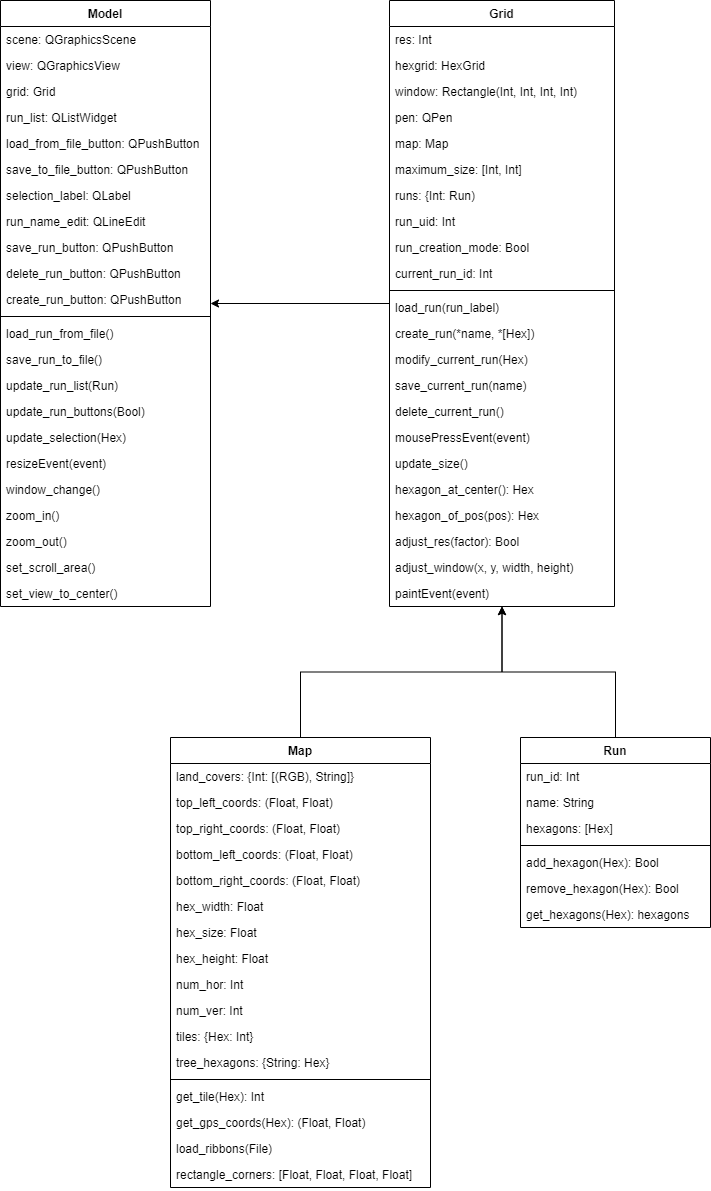
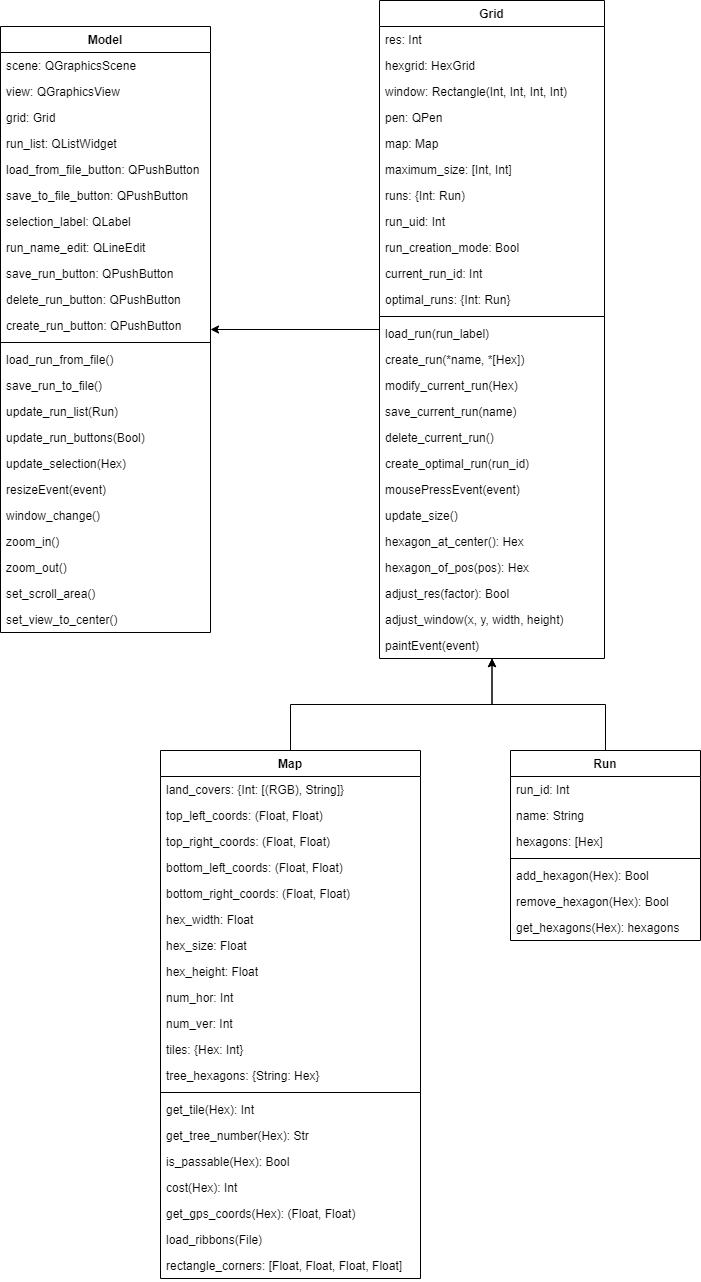
Added the functionality for calculating optimal runs. Optimal runs are now written next to the normal run columns in the CSV files.

diff --git a/code/visualisation/model.py b/code/visualisation/model.py
@@ -100,12 +100,14 @@ class Model(QtWidgets.QMainWindow):
         run_list_box.addWidget(self.run_list)
 
         # Creates a button that loads a run from a file.
-        self.load_from_file_button = QtWidgets.QPushButton("Load Run(s) from File(s)", self)
+        self.load_from_file_button = QtWidgets.QPushButton(
+            "Load Run(s) from File(s)", self)
         self.load_from_file_button.clicked.connect(self.load_run_from_file)
         run_list_box.addWidget(self.load_from_file_button)
 
         # Creates a button that writes the run hexagons to a csv file.
-        self.save_to_file_button = QtWidgets.QPushButton("Save Run to File", self)
+        self.save_to_file_button = QtWidgets.QPushButton(
+            "Save Run to File", self)
         self.save_to_file_button.clicked.connect(self.save_run_to_file)
         self.save_to_file_button.clicked.connect(self.grid.save_current_run)
         self.save_to_file_button.clicked.connect(self.run_list.clearSelection)
@@ -126,7 +128,8 @@ class Model(QtWidgets.QMainWindow):
         # Creates the button that saves the current run.
         self.save_run_button = QtWidgets.QPushButton("Save Run", self)
         self.save_run_button.setStyleSheet("background-color : green")
-        self.save_run_button.clicked.connect(lambda: self.grid.save_current_run(self.run_name_edit.text()))
+        self.save_run_button.clicked.connect(lambda: self.grid.save_current_run(
+            self.run_name_edit.text()))
         self.save_run_button.clicked.connect(self.run_list.clearSelection)
         self.save_run_button.clicked.connect(self.save_to_file_button.hide)
         self.save_run_button.hide()
@@ -188,6 +191,7 @@ class Model(QtWidgets.QMainWindow):
         selected_run = self.run_list.selectedItems()[0].text()
         selected_run_id = int(selected_run.partition(":")[0])
         run_to_be_saved = self.grid.runs[selected_run_id]
+        optimal_run = self.grid.optimal_runs[selected_run_id]
 
         file_name, _ = QtWidgets.QFileDialog.getSaveFileName(
             self, "Save Run to File", f"data/runs/{run_to_be_saved.name}",
@@ -204,32 +208,63 @@ class Model(QtWidgets.QMainWindow):
             csv_writer = writer(file)
 
             # Writes the header.
-            csv_writer.writerow(["x", "y", "lat", "long", "ribbon"])
+            csv_writer.writerow(["x", "y", "lat", "long", "ribbon",
+                                 "x", "y", "lat", "long", "ribbon"])
 
             visited_trees = []
-            for hex in run_to_be_saved.hexagons:
-                gps_coords = self.grid.map.get_gps_coords(hex)
+            optimal_visited_trees = []
+            for idx, hex in enumerate(run_to_be_saved.get_hexagons()):
+                # Values of the run.
+                hex_gps_coords = self.grid.map.get_gps_coords(hex)
+                hex_x = hex.x
+                hex_y = hex.y
+                hex_lat = hex_gps_coords[0]
+                hex_long = hex_gps_coords[1]
+                ribbon_collected = ""
 
                 # Adds tree number if ribbon collected.
-                if hex in self.grid.map.tree_hexagons.values():
-                    tree_hexes = self.grid.map.tree_hexagons.items()
-                    tree_number = [k for k, v in tree_hexes if v == hex][0]
-
+                tree_number = self.grid.map.get_tree_number(hex)
+                if tree_number:
                     # Only writes tree number if ribbon has not been collected before.
                     if tree_number not in visited_trees:
-                        csv_writer.writerow(
-                            [hex.x, hex.y, gps_coords[0], gps_coords[1], tree_number])
+                        ribbon_collected = tree_number
                         visited_trees.append(tree_number)
-                    else:
-                        csv_writer.writerow(
-                            [hex.x, hex.y, gps_coords[0], gps_coords[1]])
+
+                # Values of the optimal run.
+                if idx < len(optimal_run.get_hexagons()):
+                    optimal_hex = optimal_run.get_hexagons()[idx]
+                    optimal_hex_gps_coords = self.grid.map.get_gps_coords(optimal_hex)
+                    optimal_hex_x = optimal_hex.x
+                    optimal_hex_y = optimal_hex.y
+                    optimal_hex_lat = optimal_hex_gps_coords[0]
+                    optimal_hex_long = optimal_hex_gps_coords[1]
+                    optimal_ribbon_collected = ""
+
+                    tree_number = self.grid.map.get_tree_number(optimal_hex)
+                    if tree_number:
+                        # Only writes tree number if ribbon has not been collected before.
+                        if tree_number not in optimal_visited_trees:
+                            optimal_ribbon_collected = tree_number
+                            optimal_visited_trees.append(tree_number)
                 else:
-                    csv_writer.writerow(
-                        [hex.x, hex.y, gps_coords[0], gps_coords[1]])
+                    optimal_hex_x = ""
+                    optimal_hex_y = ""
+                    optimal_hex_lat = ""
+                    optimal_hex_long = ""
+                    optimal_ribbon_collected = ""
+
+                csv_writer.writerow([hex_x, hex_y,
+                                     hex_lat, hex_long,
+                                     ribbon_collected,
+                                     optimal_hex_x, optimal_hex_y,
+                                     optimal_hex_lat, optimal_hex_long,
+                                     optimal_ribbon_collected])
 
             # Adds a footer with the total length of the run.
             csv_writer.writerow(
-                ["length", len(run_to_be_saved.hexagons) * self.grid.map.hex_width])
+                ["length", len(run_to_be_saved.get_hexagons()) * self.grid.map.hex_width,
+                "", "", "",
+                "optimal length", len(optimal_run.get_hexagons()) * self.grid.map.hex_width])
 
         self.save_to_file_button.hide()
 
@@ -241,12 +276,12 @@ class Model(QtWidgets.QMainWindow):
             QtCore.Qt.MatchStartsWith)
 
         # Removes, updates or adds the run entry.
-        if run.run_id < 0:
+        if run.run_id < 0 and matched_run:
             idx = self.run_list.indexFromItem(matched_run[0])
             self.run_list.takeItem(idx.row())
         elif matched_run:
             matched_run[0].setText(f"{run.run_id}: {run.name}, {len(run.hexagons)} m")
-        else:
+        elif run.run_id > 0:
             list_name = f"{run.run_id}: {run.name}, {len(run.hexagons)} m"
             self.run_list.addItem(list_name)
 

diff --git a/code/visualisation/grid.py b/code/visualisation/grid.py
@@ -29,6 +29,7 @@ class Grid(QtWidgets.QWidget):
     |run_uid: Int
     |run_creation_mode: Bool
     |current_run_id: Int
+    |optimal_runs: {Int: Run}
 
     Methods:
     |load_run(run_label): loads the run with the id that is in the given
@@ -39,6 +40,8 @@ class Grid(QtWidgets.QWidget):
     |   run if allowed.
     |save_current_run(name): saves the current run to the current session.
     |delete_current_run(): deletes the current run from the current session.
+    |create_optimal_run(run_id): creates a run with optimal distances
+    |   between ribbons based on the ribbons collected in the given run.
     |mousePressEvent(event): selects or deselects the hexagon that has
     |   been clicked."
     |update_size(): resizes the widget according to the pixel location
@@ -54,7 +57,7 @@ class Grid(QtWidgets.QWidget):
     |paintEvent(event): draws the hexagons that fit in the window with
     |   a colour based on their land cover.
     """
-    # Signals for the mainwindow widget to update GUI elements.
+    # Signals for the mainwindow widget to update its GUI elements.
     selected = QtCore.pyqtSignal(object)
     run_creation = QtCore.pyqtSignal(bool)
     run_list_update = QtCore.pyqtSignal(object)
@@ -91,6 +94,9 @@ class Grid(QtWidgets.QWidget):
         self.run_creation_mode = False
         self.current_run_id = 0
 
+        # Initialises functionality for optimal runs.
+        self.optimal_runs = {}
+
     def load_run(self, run_label):
         """Loads the run provided by the label of the GUI run list."""
         run_id = int(run_label.text().partition(':')[0])
@@ -117,6 +123,9 @@ class Grid(QtWidgets.QWidget):
             # Signals to the GUI's main window to load the run in the list.
             self.runs[self.run_uid] = new_run
             self.run_list_update.emit(new_run)
+
+            # Creates an optimal run for the loaded run.
+            self.create_optimal_run(self.run_uid)
 
             self.run_uid += 1
         else:
@@ -146,11 +155,18 @@ class Grid(QtWidgets.QWidget):
         self.run_creation_mode = False
         self.run_creation.emit(False)
 
+        # Creates an optimal run for the saved run.
+        self.create_optimal_run(self.current_run_id)
+
         saved_run = self.runs[self.current_run_id]
         if name:
             saved_run.name = name
         # Signals to GUI to add the (edited) run to the list.
         self.run_list_update.emit(saved_run)
+
+        # Sets the selected hexagon to the last hexagon of the run.
+        self.selected_hexagon = saved_run.get_hexagons()[-1]
+        self.selected.emit(self.selected_hexagon)
 
         self.repaint()
 
@@ -166,7 +182,45 @@ class Grid(QtWidgets.QWidget):
         self.run_list_update.emit(deleted_run)
 
         del self.runs[self.current_run_id]
+        self.optimal_runs.pop(self.current_run_id, None)
+
         self.repaint()
+
+    def create_optimal_run(self, run_id):
+        """Creates a run with optimal distances between ribbons
+        based on the ribbons collected in the given run.
+        """
+        run = self.runs[run_id]
+
+        # Collects the numbers of every tree visited in the run.
+        visited_trees = []
+        for hexagon in run.get_hexagons():
+            tree_number = self.map.get_tree_number(hexagon)
+            if tree_number and tree_number not in visited_trees:
+                visited_trees.append(tree_number)
+
+        optimal_run = Run(run_id)
+        # Sets starting position and the beginning of the optimal run.
+        current_position = run.get_hexagons()[0]
+        optimal_run.add_hexagon(current_position)
+
+        # Finds the optimal route beginning from the first hexagon to
+        # the first ribbon, and then every ribbon after.
+        for tree_number in visited_trees:
+            tree_hexagon = self.map.tree_hexagons[tree_number]
+            path = current_position.find_path(tree_hexagon,
+                                              self.map.is_passable,
+                                              self.map.cost)
+
+            # Adds every hexagon besides the first one to the optimal run.
+            for hexagon in path[1:]:
+                custom_hex = self.map.tiles[(hexagon.x, hexagon.y)]
+                optimal_run.add_hexagon(custom_hex)
+
+            # Sets the tree as the starting position for the next path.
+            current_position = tree_hexagon
+
+        self.optimal_runs[run_id] = optimal_run
 
     def mousePressEvent(self, event):
         """Selects or deselects the hexagon that has been clicked."""

diff --git a/code/classes/map.py b/code/classes/map.py
@@ -35,6 +35,12 @@ class Map():
     Methods:
     |get_tile(Hex): returns the land cover if exists, else defaults
     |   to 5 (no land cover).
+    |get_tree_number(Hex): returns the tree number if the hexagon is a
+    | tree else returns False.
+    |is_passable(Hex): returns true or false depending on if the land
+    |   cover associated with the hexagon is passable.
+    |cost(Hex): returns the cost of passing through a hexagon based on
+    |   its land cover.
     |get_gps_coords(Hex): returns the gps coords of the center of the
     |   hex.
     |load_ribbons(File): loads all the ribbons based on the tree number
@@ -134,11 +140,41 @@ class Map():
     def get_tile(self, hexagon):
         """Returns the land cover of the hexagon."""
         custom_hex = self.tiles.get((hexagon.x, hexagon.y))
-
         if not custom_hex:
             return 5
 
         return custom_hex.get_landcover()
+
+    def get_tree_number(self, hexagon):
+        """Returns the tree number of the given hexagon if it is a tree."""
+        if hexagon not in self.tree_hexagons.values():
+            return False
+
+        tree_hexes = self.tree_hexagons.items()
+        tree_number = [k for k, v in tree_hexes if v == hexagon][0]
+
+        return tree_number
+
+    def is_passable(self, hexagon):
+        """Returns if the hexagon is allowed to be passed through."""
+        land_cover = self.get_tile(hexagon)
+        if land_cover == 3 or land_cover == 5:
+            return False
+
+        return True
+
+    def cost(self, hexagon):
+        """Calculates the cost for each land cover to pass through."""
+        land_cover = self.get_tile(hexagon)
+        # Grass
+        if land_cover == 1:
+            return 10
+        # Bushes
+        if land_cover == 2:
+            return 50
+        # Path
+        if land_cover == 4:
+            return 1
 
     def get_gps_coords(self, hex):
         """Returns the real coordinates of the center of a hexagon."""
